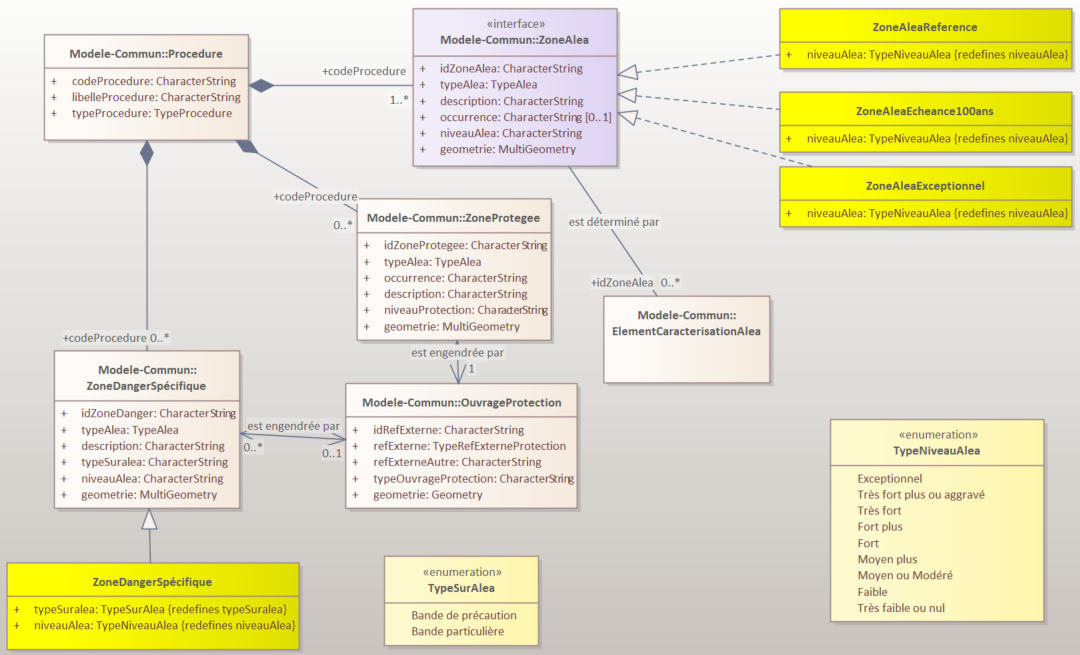
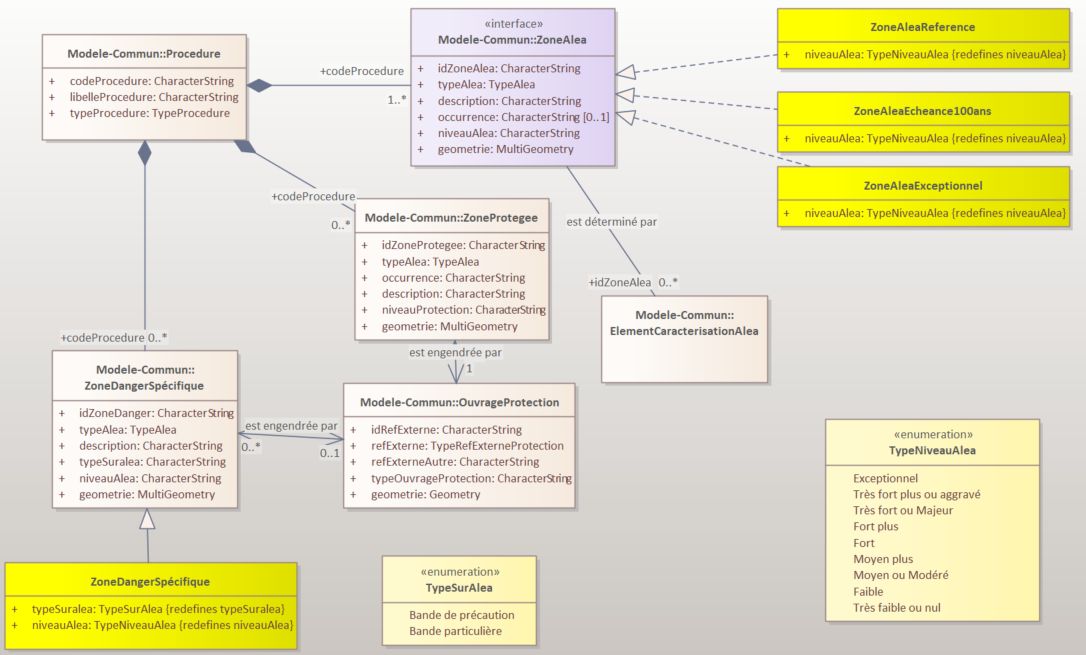
correctif niveaux aléas

diff --git a/standards/Geostandards-risques-ppr/Document.md b/standards/Geostandards-risques-ppr/Document.md
@@ -588,15 +588,15 @@ Le tableau suivant liste les valeurs possibles et communes pour caractériser l'
 
 | Code | Libellé Etat | Type PPR applicable |
 |-|-|-|
-| 00 | Très faible ou nul | PPRN Avalanches | 
+| 00 | Très faible ou nul | PPR Avalanches ou PPR Incendies de forêt | 
 | 01 | Faible | Tous PPR |
-| 02 | Moyen ou Modéré | Tous PPR. Correspond au niveau "Modéré" pour les PPR Inondation |
+| 02 | Moyen ou Modéré | Tous PPR. Le terme "Modéré" est appliqué dans certains PPRN  |
 | 03 | Moyen plus | PPRT |
 | 04 | Fort | Tous PPR |
 | 05 | Fort plus | PPRT |
-| 06 | Très fort | Tous PPRN et PPRT |
-| 07 | Très fort plus ou aggravé | PPRT ou PPR Inondation Crue Torrentielles (Correspond au niveau "Très fort Aggravé")|
-| 08 | Exceptionnel | PPRN Avalanches |
+| 06 | Très fort ou Majeur | Tous PPRN et PPRT. Le terme "Majeur" peut-être utilisé pour les PPR Mouvement de terrain |
+| 07 | Très fort plus ou aggravé | PPRT (Très fort plus) ou PPR Inondation Crue Torrentielles (Très fort Aggravé)|
+| 08 | Exceptionnel | PPR Avalanches |
 
 
 #### Enumeration *TypeSurAlea*
